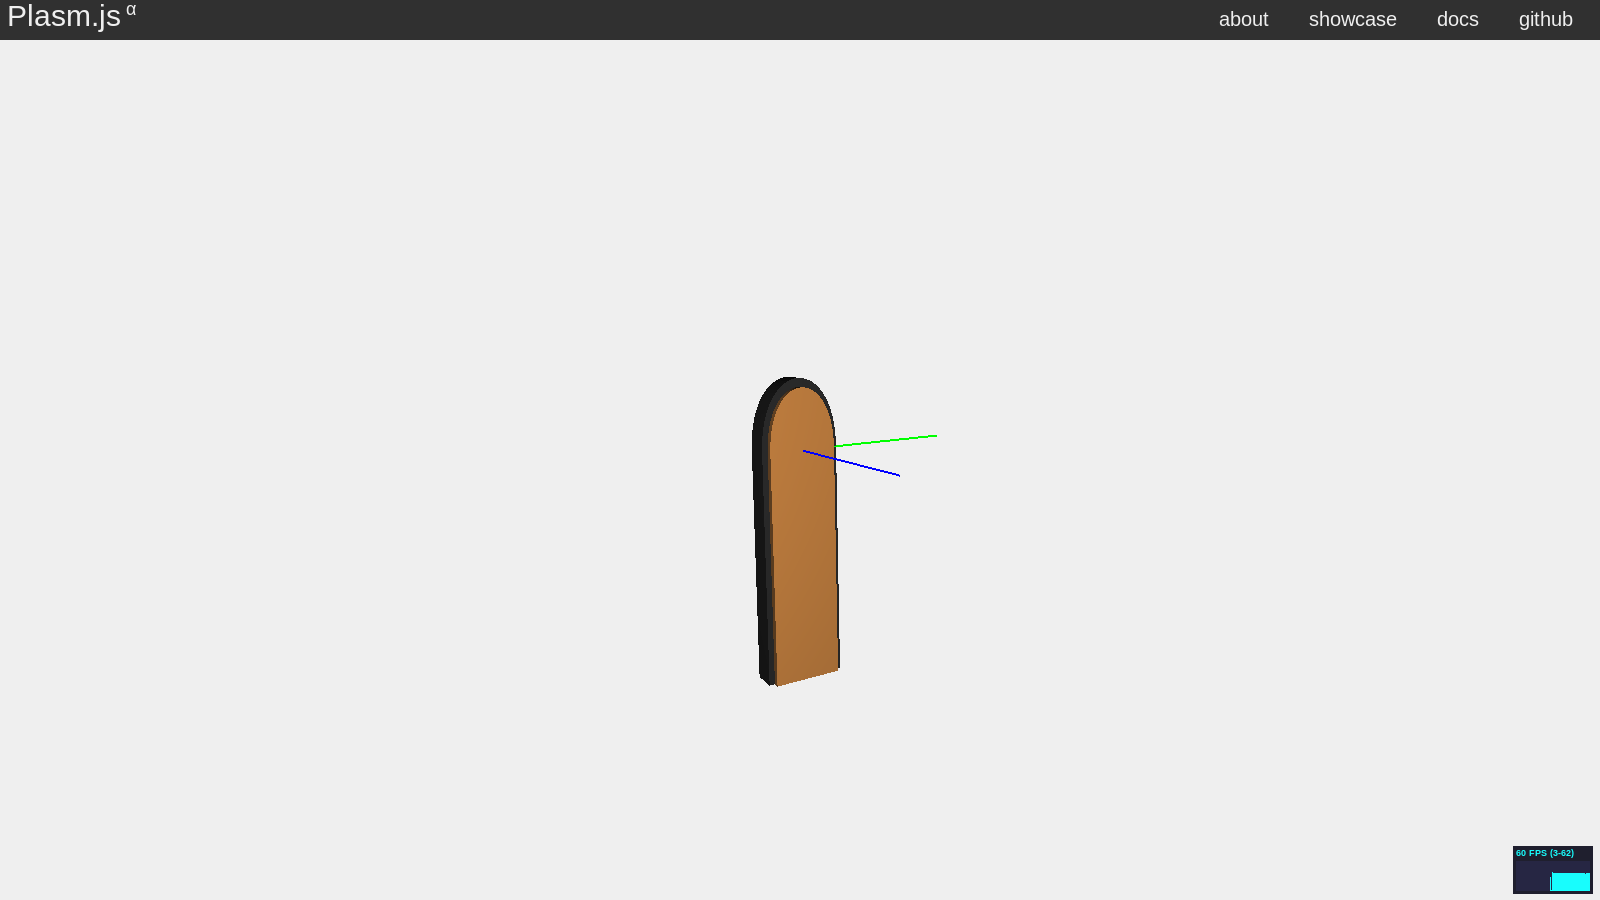
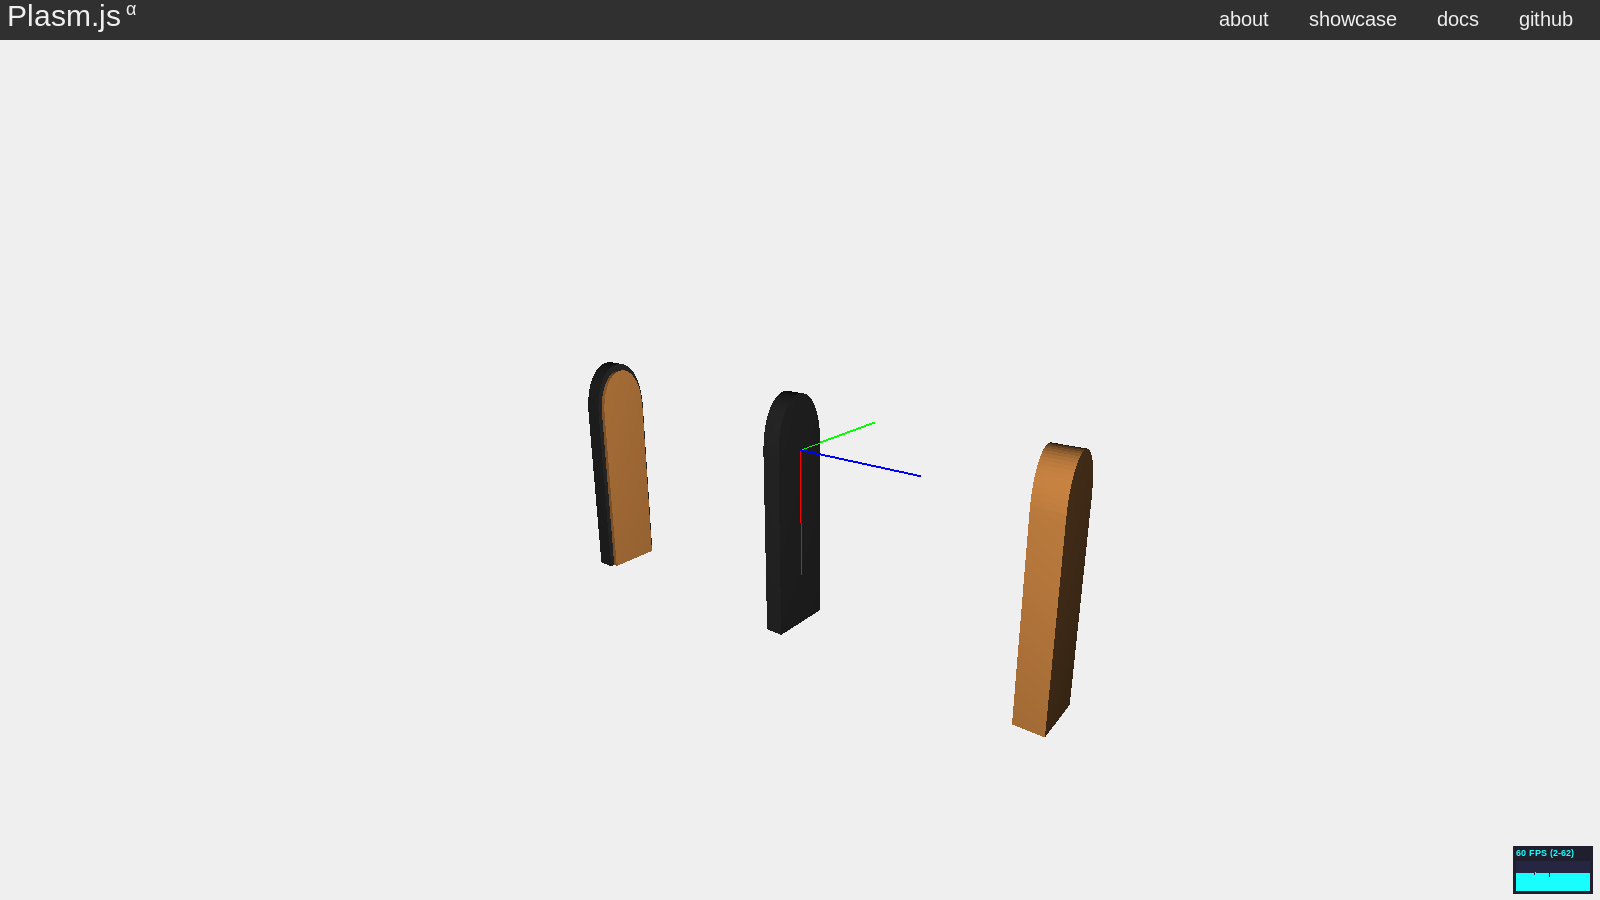
page

diff --git a/l15bicolore.html b/l15bicolore.html
@@ -58,35 +58,37 @@
 First of all i realized the Headboard.
 The HeadBoard id made of two part: The black down part (right image) and The bicolor up part (left image).
 The up part is in turn composed by two other parts. The brown part is embedded on the black up part.
-<p><img src="https://github.com/stederob/Final-Project/blob/gh-pages/images/melon%20service/js-carafe.png?raw=true" alt="carafe-js" style="width:300px; heigth:30px;"></p>
-<h2><a href="http://stederob.github.io/Final-Project/teapot.html">Teapot</a></h2>
-The teapot is made up of several concentric curves that give the different depths.
-<p><img src="https://github.com/stederob/Final-Project/blob/gh-pages/images/melon%20service/teapot-js.png?raw=true" alt="teapot-js" style="width:300px; heigth:30px;"></p>
-<h2><a href="http://stederob.github.io/Final-Project/sugarbowl.html">Sugar Bowl</a></h2>
-The sugar is almost spherical if it were not for the sector occupied by the cover.
-<p><img src="https://github.com/stederob/Final-Project/blob/gh-pages/images/melon%20service/js-sugarbowl.png?raw=true" alt="sugar-bowl-js" style="width:300px; heigth:30px;"></p>
-<h2><a href="http://stederob.github.io/Final-Project/cup.html">Cup</a></h2>
-The cups show their sophistication  with petal-shaped saucers.
-<p><img src="https://github.com/stederob/Final-Project/blob/gh-pages/images/melon%20service/js-cup.png?raw=true" alt="sugar-bowl-js" style="width:300px; heigth:30px;"></p>
+I used BEZIER curves.
+<p><img src="https://raw.github.com/ingmichelegalli/ingmichelegalli.github.io/master/images/l15bicolore/l15bicolorefront.png" alt="l15bicolore-js" style="width:300px; heigth:30px;" float= "right">
+<img src="https://raw.github.com/ingmichelegalli/ingmichelegalli.github.io/master/images/l15bicolore/l15bicolorefrontup.png" alt="l15bicolore-js" style="width:300px; heigth:30px;" float= "left">
+</p>
 
-This is the final result.
 
-<p><img src="https://github.com/stederob/Final-Project/blob/gh-pages/images/melone_design.jpg?raw=true" style="width:290px; heigth:290px;">
-<img src="https://github.com/stederob/Final-Project/blob/gh-pages/images/melon%20service/melon-service.png?raw=true" alt="Josef Hoffmann" style="width:310px; heigth:310px;"></p>
+<h2>
+After that i realized the mattress with the grid structure.
+Here i first made one vertical and one horizontal stripe and then i wrote a function to repeat them to create the grid.
+The external structure is made with four cuboid functions.
+The mattress is made with Bezier.
+<p><img src="https://raw.github.com/ingmichelegalli/ingmichelegalli.github.io/master/images/l15bicolore/l15bicoloregridmattress.png" alt="l15bicolore-js" style="width:300px; heigth:30px;"></p></h2>
+
+Finally i did the legs of the bed.
+The legs have the same pattern of the up headboard and they are made by two parts
+<p><img src="https://raw.github.com/ingmichelegalli/ingmichelegalli.github.io/master/images/l15bicolore/l15bicoloreleg.png" alt="l15bicolore-js" style="width:300px; heigth:30px;"></p>
+
+This is the final L15 BICOLORE model.
+
+<p><img src="https://raw.github.com/ingmichelegalli/ingmichelegalli.github.io/master/images/l15bicolore/l15bicolorefinalmodel.png" style="width:290px; heigth:290px;">
+  <br><br><br><br><br><br><br>
 </div>
 </font>
 
-<h3>
-<a name="support-or-contact" class="anchor" href="#support-or-contact"><span class="octicon octicon-link"></span></a>Support or Contact</h3>
-
-<p>Having trouble with Pages? Check out the documentation at <a href="http://help.github.com/pages">http://help.github.com/pages</a> or contact <a href="mailto:support@github.com">support@github.com</a> and we’ll help you sort it out.</p>
       </section>
     </div>
 
-    <!-- FOOTER  -->
+     <!-- FOOTER  -->
     <div id="footer_wrap" class="outer">
       <footer class="inner">
-        <p class="copyright">Final-project maintained by <a href="https://github.com/stederob">stederob</a></p>
+        <p class="copyright">Final-project maintained by <a href="https://github.com/ingmichelegalli">Michele Galli</a></p>
         <p>Published with <a href="http://pages.github.com">GitHub Pages</a></p>
       </footer>
     </div>
